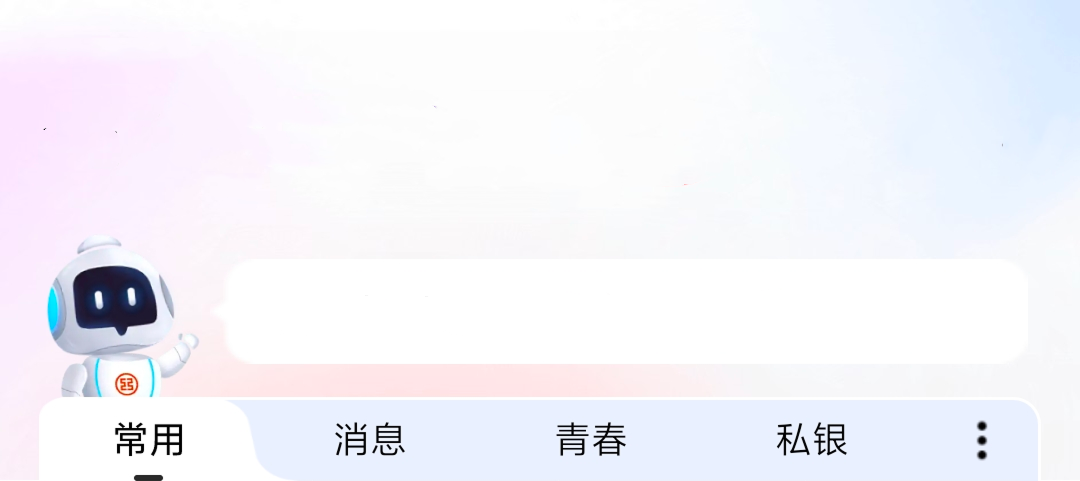
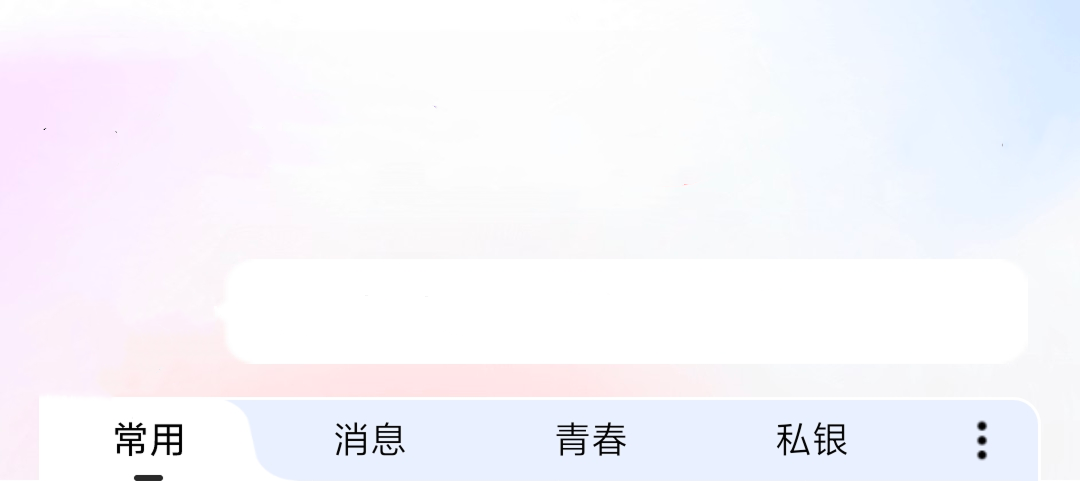
feat(*):大象 图片

Changed region(s): [[0.0306, 0.499, 0.1833, 0.842]]

diff --git a/cbc/lib/pages/tabs/home/component/home_content_widget1.dart b/cbc/lib/pages/tabs/home/component/home_content_widget1.dart
@@ -245,6 +245,22 @@ class _HomeContentWidget1State extends State<HomeContentWidget1> {
                         Get.toNamed(Routes.homeRobotPage);
                       }),
                       Positioned(
+                          left: 15.w,
+                          bottom: 30.w,
+                          child:
+                          Container(
+                            width: 55.w,
+                            height: (55/172*143).w,
+                            color: Colors.blue,
+                          )
+
+                          // Image(
+                          //   image: 'ic_fhome_jqr'.png3x,
+                          //   width: 55.w,
+                          //   height: (55/172*143).w,
+                          // )
+                      ),
+                      Positioned(
                           bottom: 0,
                           child: Container(
                             width: 1.sw - 30.w,
